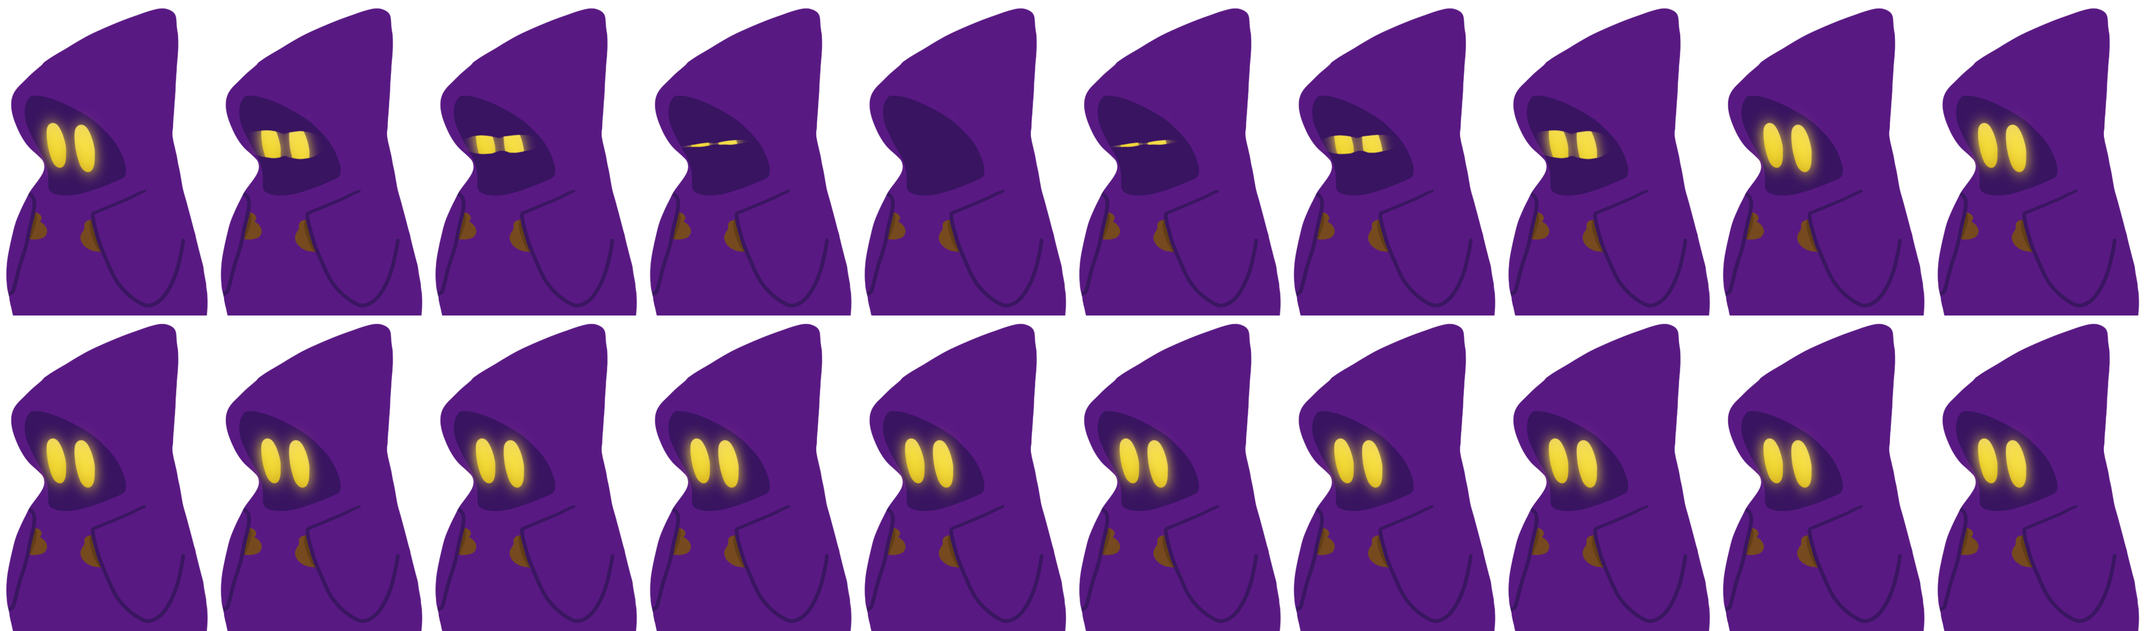
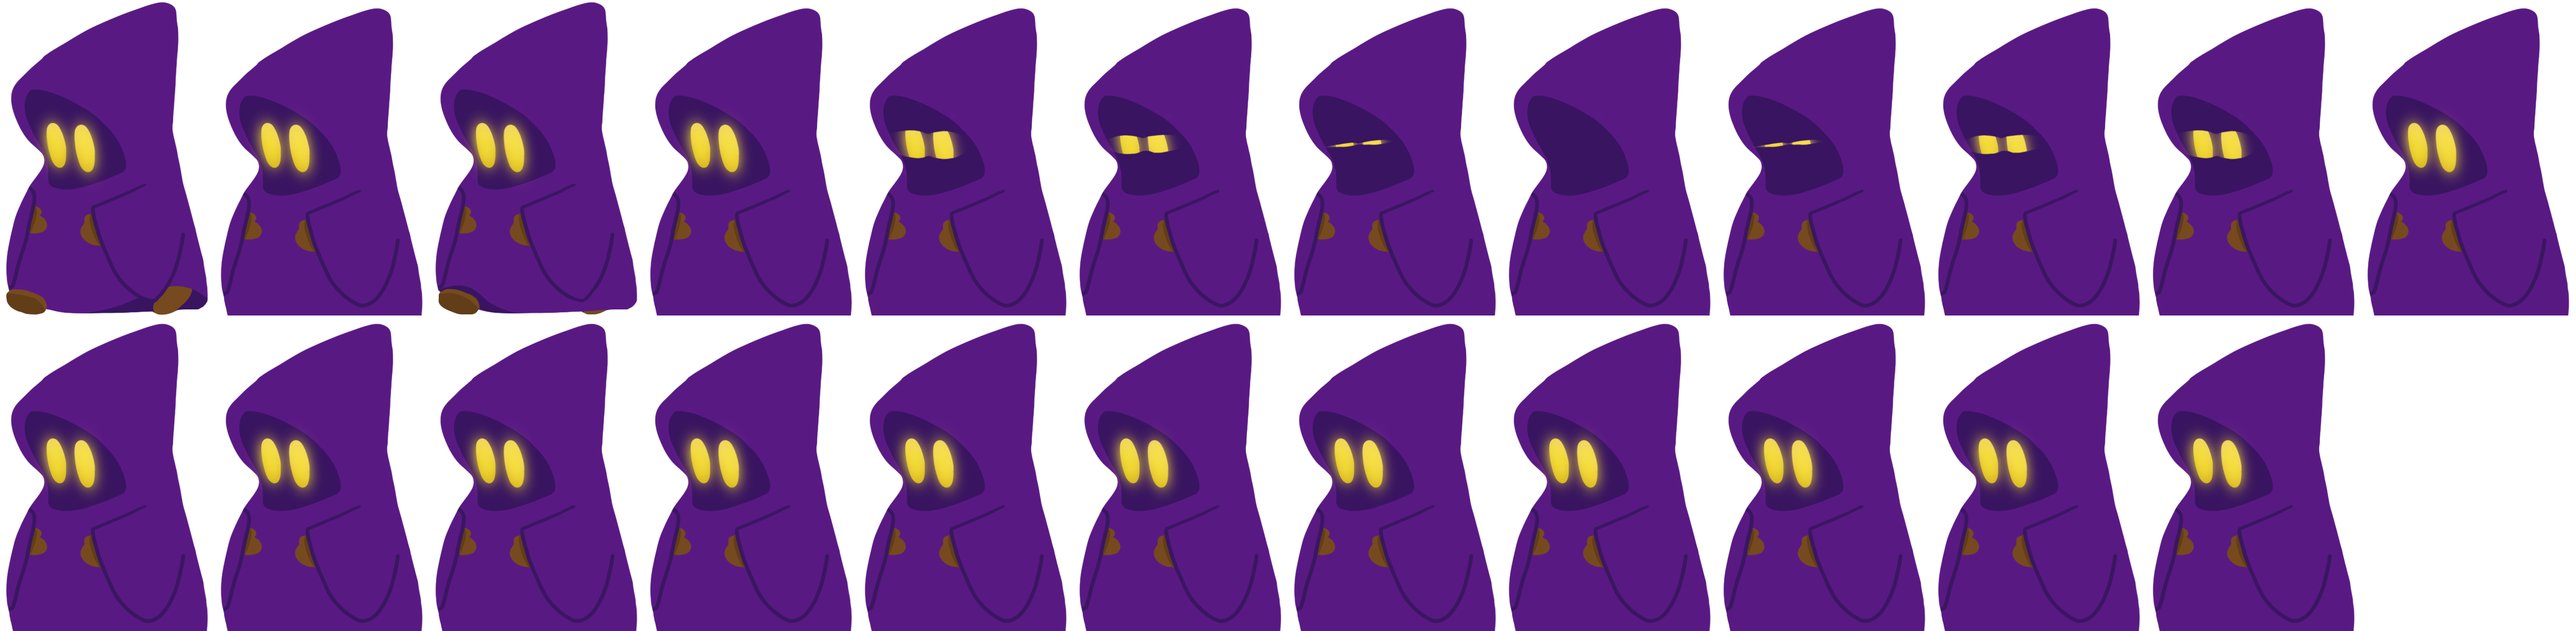
anim run

diff --git a/src/Player.js b/src/Player.js
@@ -22,10 +22,21 @@ class Player {
       key: 'idleanim',
       frames: this.scene.anims.generateFrameNames('atlasanim',{
         prefix:'idle',
-        start: 0,
+        start: 1,
         end: 20,
       }),
       frameRate: 10,
+      repeat: -1,
+    });
+
+    this.scene.anims.create({
+      key: 'moveanim',
+      frames: this.scene.anims.generateFrameNames('atlasanim',{
+        prefix:'run',
+        start: 1,
+        end: 3,
+      }),
+      frameRate: 8,
       repeat: -1,
     });
 
@@ -63,11 +74,17 @@ class Player {
   moveRight() {
     this.player.setVelocityX(300);
     this.player.setFlipX(true);
+    if (this.player.body.onFloor()) {
+      this.player.play('moveanim', true);
+    }
   }
 
   moveLeft() {
     this.player.setVelocityX(-300);
     this.player.setFlipX(false);
+    if (this.player.body.onFloor()) {
+      this.player.play('moveanim', true);
+    }
   }
 
   moveIdle() {

diff --git a/src/SceneUI.js b/src/SceneUI.js
@@ -61,7 +61,6 @@ class SceneUI extends Phaser.Scene {
                 fontFamily: 'TheNextFont',
                 color: 'black',
                 fontSize: 60,
-
             });
             this.timedEvent = this.time.addEvent({
                 delay: 1000,
